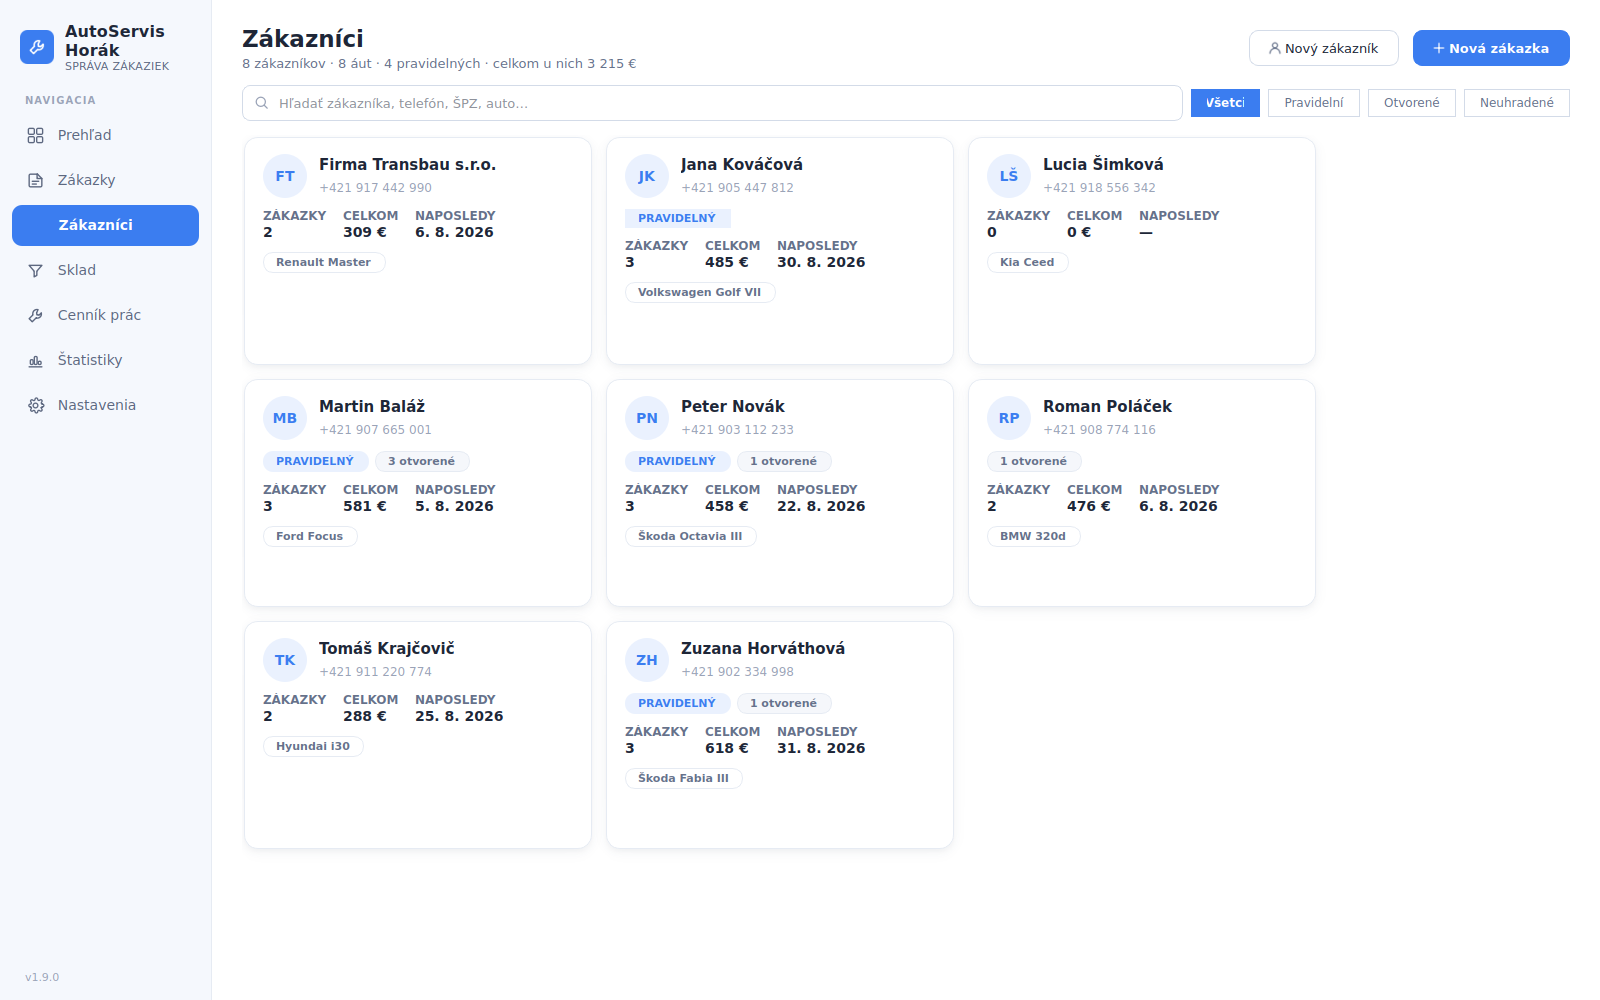
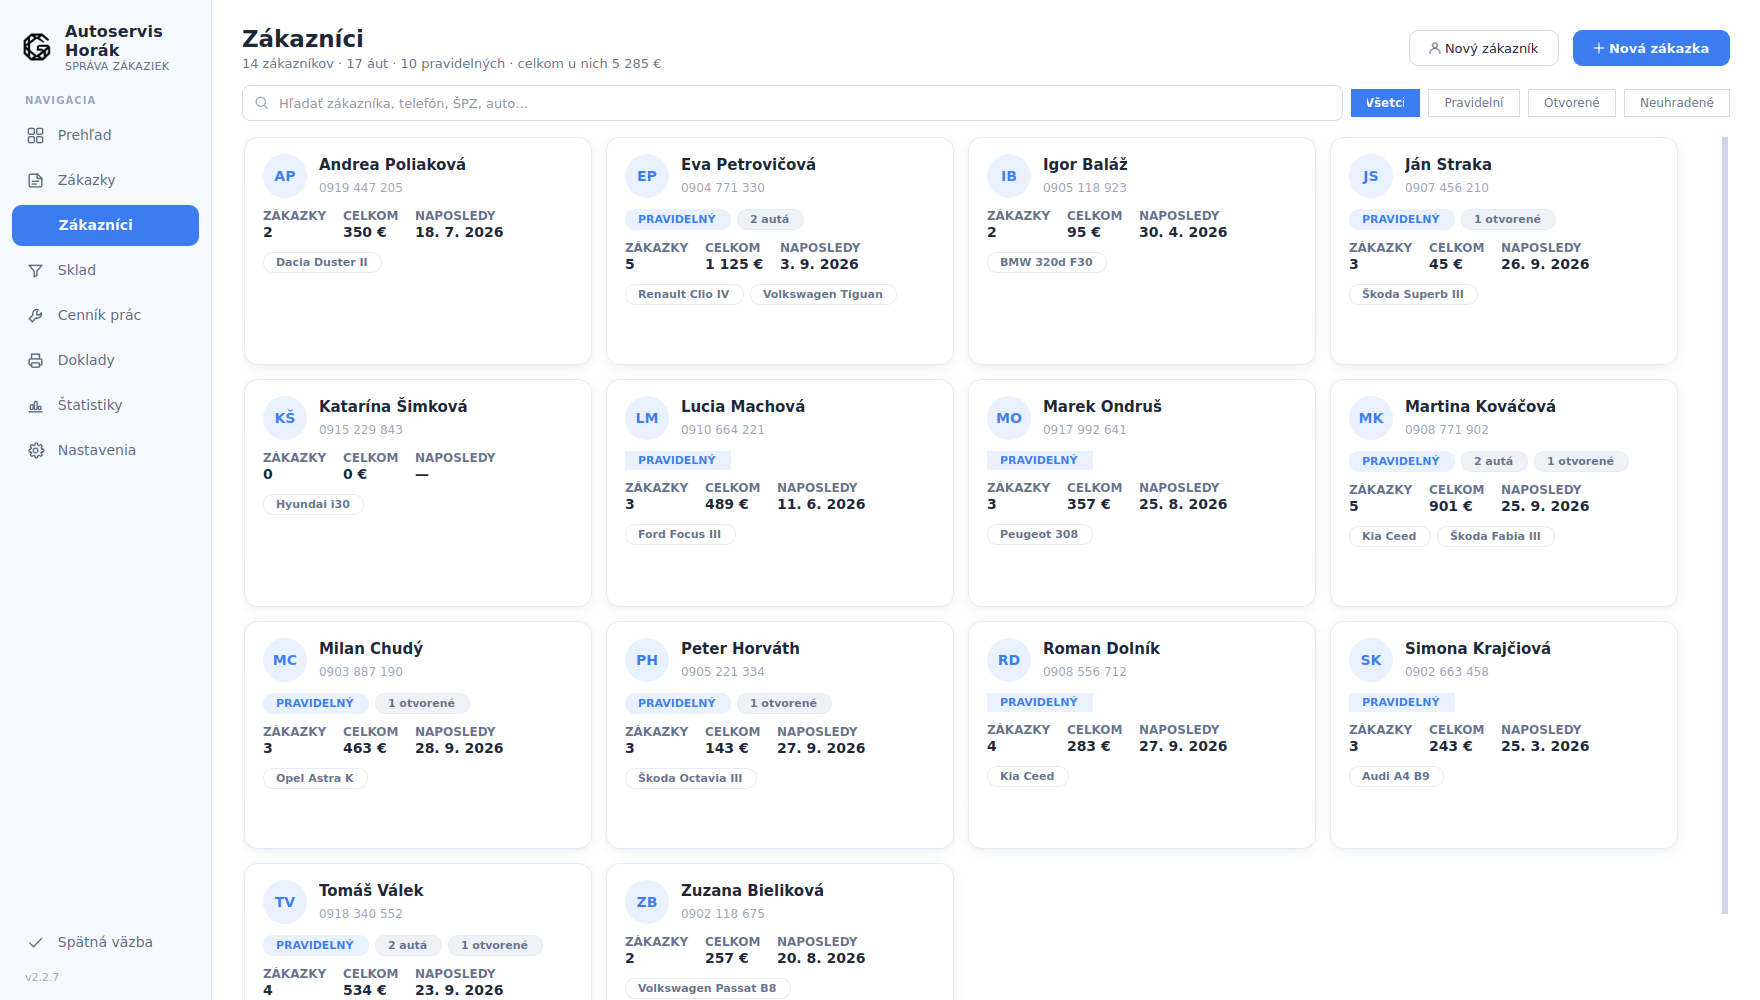
Aktualizovať screenshoty na landing page novšími verziami
Nahradené obrázky v prehľade, zákazkách, zákazníkoch, sklade, cenníku,
štatistikách, nastaveniach a detaile zákazky; upravené width/height
atribúty <img> podľa skutočných rozmerov nových screenshotov.

Claude-Session: https://claude.ai/code/session_0152vuxcV8JDEBrHtZJNJqxq

diff --git a/public/funkcie.html b/public/funkcie.html
@@ -80,7 +80,7 @@
         </ul>
       </div>
       <figure class="shot ">
-  <img src="assets/img/zakazky.png" alt="Zoznam zákaziek s filtrami podľa stavu" loading="lazy" decoding="async" width="1600" height="1000">
+  <img src="assets/img/zakazky.png" alt="Zoznam zákaziek s filtrami podľa stavu" loading="lazy" decoding="async" width="1760" height="1000">
 </figure>
     </div>
   </div>
@@ -101,7 +101,7 @@
         </ul>
       </div>
       <figure class="shot ">
-  <img src="assets/img/zakazka-udaje.png" alt="Detail zákazky so záložkou Údaje" loading="lazy" decoding="async" width="1600" height="1000">
+  <img src="assets/img/zakazka-udaje.png" alt="Detail zákazky so záložkou Údaje" loading="lazy" decoding="async" width="980" height="900">
 </figure>
     </div>
   </div>
@@ -121,7 +121,7 @@
         </ul>
       </div>
       <figure class="shot ">
-  <img src="assets/img/zakazka-prace.png" alt="Záložka Práce a cena s úkonmi a dielmi" loading="lazy" decoding="async" width="1600" height="1000">
+  <img src="assets/img/zakazka-prace.png" alt="Záložka Práce a cena s úkonmi a dielmi" loading="lazy" decoding="async" width="980" height="900">
 </figure>
     </div>
   </div>
@@ -141,7 +141,7 @@
         </ul>
       </div>
       <figure class="shot ">
-  <img src="assets/img/zakaznici.png" alt="Karty zákazníkov s prehľadom zákaziek" loading="lazy" decoding="async" width="1600" height="1000">
+  <img src="assets/img/zakaznici.png" alt="Karty zákazníkov s prehľadom zákaziek" loading="lazy" decoding="async" width="1760" height="1000">
 </figure>
     </div>
   </div>
@@ -161,7 +161,7 @@
         </ul>
       </div>
       <figure class="shot ">
-  <img src="assets/img/sklad.png" alt="Skladová evidencia dielov" loading="lazy" decoding="async" width="1600" height="1000">
+  <img src="assets/img/sklad.png" alt="Skladová evidencia dielov" loading="lazy" decoding="async" width="1760" height="1000">
 </figure>
     </div>
   </div>
@@ -181,7 +181,7 @@
         </ul>
       </div>
       <figure class="shot ">
-  <img src="assets/img/cennik-prac.png" alt="Cenník prác s kategóriami a normohodinami" loading="lazy" decoding="async" width="1600" height="1000">
+  <img src="assets/img/cennik-prac.png" alt="Cenník prác s kategóriami a normohodinami" loading="lazy" decoding="async" width="1760" height="1000">
 </figure>
     </div>
   </div>
@@ -201,7 +201,7 @@
         </ul>
       </div>
       <figure class="shot ">
-  <img src="assets/img/statistiky.png" alt="Štatistiky tržieb a zákaziek" loading="lazy" decoding="async" width="1600" height="1000">
+  <img src="assets/img/statistiky.png" alt="Štatistiky tržieb a zákaziek" loading="lazy" decoding="async" width="1760" height="1000">
 </figure>
     </div>
   </div>
@@ -221,7 +221,7 @@
         </ul>
       </div>
       <figure class="shot ">
-  <img src="assets/img/nastavenia.png" alt="Nastavenia dielne, cien a faktúr" loading="lazy" decoding="async" width="1600" height="1000">
+  <img src="assets/img/nastavenia.png" alt="Nastavenia dielne, cien a faktúr" loading="lazy" decoding="async" width="1760" height="1000">
 </figure>
     </div>
   </div>

diff --git a/public/index.html b/public/index.html
@@ -102,7 +102,7 @@
   </div>
   <div class="wrap hero__shot">
     <figure class="shot shot--hero">
-  <img src="assets/img/prehlad.png" alt="Úvodná obrazovka programu GridServis s prehľadom zákaziek a tržieb" fetchpriority="high" decoding="async" width="1600" height="1000">
+  <img src="assets/img/prehlad.png" alt="Úvodná obrazovka programu GridServis s prehľadom zákaziek a tržieb" fetchpriority="high" decoding="async" width="1760" height="1000">
 </figure>
   </div>
 </section>
@@ -159,7 +159,7 @@
         <a class="link" href="funkcie.html#zakazky">Podrobnosti o zákazkách</a>
       </div>
       <figure class="shot ">
-  <img src="assets/img/zakazky.png" alt="Zoznam zákaziek s filtrami podľa stavu" loading="lazy" decoding="async" width="1600" height="1000">
+  <img src="assets/img/zakazky.png" alt="Zoznam zákaziek s filtrami podľa stavu" loading="lazy" decoding="async" width="1760" height="1000">
 </figure>
     </div>
   </div>
@@ -180,7 +180,7 @@
         <a class="link" href="funkcie.html#statistiky">Podrobnosti o štatistikách</a>
       </div>
       <figure class="shot ">
-  <img src="assets/img/statistiky.png" alt="Štatistiky tržieb a zákaziek" loading="lazy" decoding="async" width="1600" height="1000">
+  <img src="assets/img/statistiky.png" alt="Štatistiky tržieb a zákaziek" loading="lazy" decoding="async" width="1760" height="1000">
 </figure>
     </div>
   </div>
